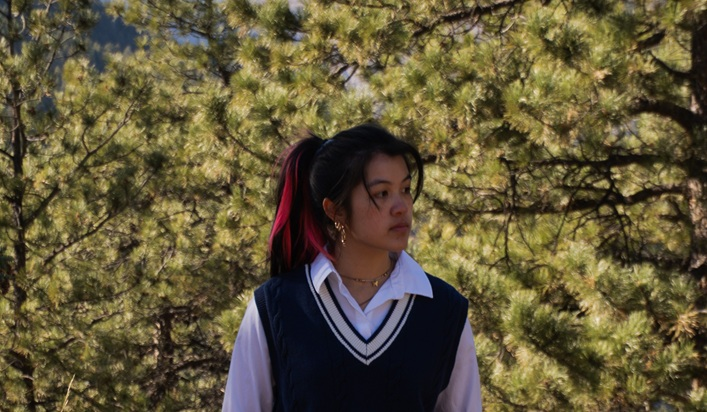
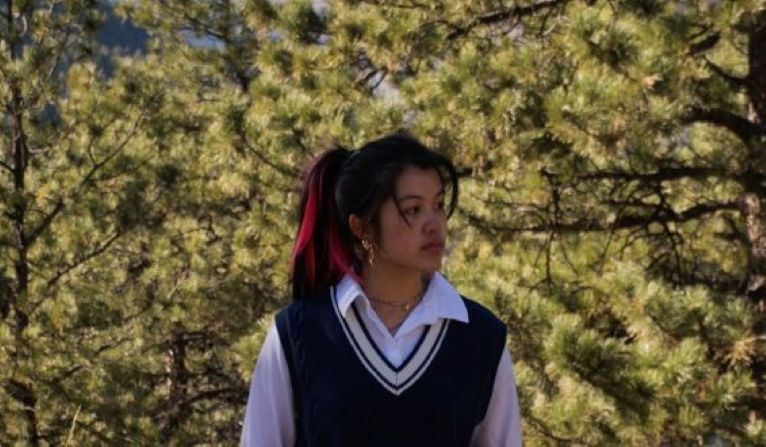
headshot size bigger, additional edits, links

diff --git a/projects.html b/projects.html
@@ -11,77 +11,75 @@
 </head>
 
 <body>
-    <div id="overlay"></div>
-    <div id="underlay">
-        <div class="mainHeader">
-            <a href="index.html" tabindex="1">Home</a>
-            <a href="aboutMe.html" tabindex="2">About Me</a>
-            <a href="projects.html" tabindex="3">Portfolio</a>
-        </div>
+    <div class="mainHeader">
+        <a href="index.html" tabindex="1">Home</a>
+        <a href="aboutMe.html" tabindex="2">About Me</a>
+        <a href="projects.html" tabindex="3">Portfolio</a>
+    </div>
 
-        <div class="portcont">
-            <h1 tabindex="4">Here's a portfolio of my work!</h1>
-        </div>
-            <div class="cols">
-                <div class="col" ontouchstart="this.classList.toggle('hover');">
-                    <div class="container">
-                        <div class="front" style=background:yellow>
-                            <div class="inner">
-                                <p>Figma Website Replica and Redesign</p>
-                                <span>
-                                </span>
-                            </div>
-                        </div>
-                        <div class="back">
-                            <div class="inner">
-                                <p>I recreated the visual interface of a website and redesigned it to be better. The recreation taught me to navigate Figma design features, and the redesign exercised my graphic design skills. Here's the link:
-                                    <a href="https://www.figma.com/design/GNd59A1XruwCxladOMW9KX/Website-Interface-Redesign---Keira-Vu?node-id=0-1&p=f&t=da6rDWxkaQMwk9Q4-0">
-                                    Interface Redesign
-                                    </a>
-                                </p>
-                            </div>
-                        </div>
+    <div class="portcont">
+        <h1 tabindex="4">Here's a portfolio of my work!</h1>
+    </div>
+
+    <div class="cols">
+        <div class="col" ontouchstart="this.classList.toggle('hover');">
+            <div class="container">
+                <div class="front" style=background:yellow>
+                    <div class="inner">
+                        <p tabindex="4">Figma Website Replica and Redesign</p>
                     </div>
                 </div>
-                <div class="col" ontouchstart="this.classList.toggle('hover');">
-                    <div class="container">
-                        <div class="front" style=background:green>
-                            <div class="inner">
-                                <p>Atlas Themed Sticker</p>
-                            </div>
-                        </div>
-                        <div class="back">
-                            <div class="inner">
-                                <p>I took the Unstable Design Lab in the Atlas Center and designed a 70s themed sticker that related to it.</p>
-                            </div>
-                        </div>
-                    </div>
-                </div>
-                <div class="col" ontouchstart="this.classList.toggle('hover');">
-                    <div class="container">
-                        <div class="front" style=background:red>
-                            <div class="inner">
-                                <p>Concert Program Poster Mailer</p>                                
-                            </div>
-                        </div>
-                        <div class="back">
-                            <div class="inner">
-                                <p>I was tasked to take all of the text included in this PDF and format it all onto one page, and then design the poster side. Here's the PDF:</p>
-                                <a href="file:///C:/Users/keivu/OneDrive/Documents/textFA25/PosterMailerProject2_KeiraVu.pdf">Concert Program Poster Mailer</a>
-                            </div>
-                        </div>
+                <div class="back">
+                    <div class="inner">
+                        <p tabindex="5">I recreated the visual interface of a website and redesigned it to be better. The recreation taught me to navigate Figma design features, and the redesign exercised my graphic design skills. Here's the link:
+                            <a href="https://www.figma.com/design/GNd59A1XruwCxladOMW9KX/Website-Interface-Redesign---Keira-Vu?node-id=0-1&p=f&t=da6rDWxkaQMwk9Q4-0"
+                            tabindex="6">Interface Redesign</a>
+                        </p>
                     </div>
                 </div>
             </div>
-
-        <footer class="foot">
-            <div class="emails">
-                <a href="mailto:keira.vu@gmail.com">keira.vu@gmail.com</a>
-                <a href="mailto:kevu2910@colorado.edu">kevu2910@colorado.edu</a>
+        </div>
+        <div class="col" ontouchstart="this.classList.toggle('hover');">
+            <div class="container">
+                <div class="front" style=background:green>
+                    <div class="inner">
+                        <p tabindex="7">Atlas Themed Sticker</p>
+                    </div>
+                </div>
+                <div class="back">
+                    <div class="inner">
+                        <p tabindex="8">I took the Unstable Design Lab in the Atlas Center and designed a 70s themed sticker that related to it. Here's the sticker:</p>
+                        <a href="./images/Sticker.png" tabindex="9">Atlas Sticker
+                        </a>                               
+                    </div>
+                </div>
             </div>
-            <div>720-930-5763</div>
-        </footer>    
-    </div>   
+        </div>
+        <div class="col" ontouchstart="this.classList.toggle('hover');">
+            <div class="container">
+                <div class="front" style=background:red>
+                    <div class="inner">
+                        <p tabindex="10">Concert Program Poster Mailer</p>                                
+                    </div>
+                </div>
+                <div class="back">
+                    <div class="inner">
+                        <p tabindex="11">I was tasked to take all of the text included in this PDF and format it all onto one page, and then design the poster side. Here are the images:</p>
+                        <a href="./images/Program.png" tabindex="12">Concert Poster</a>
+                        <a href="./images/Program2.png" tabindex="13">Concert Program</a>
+                    </div>
+                </div>
+            </div>
+        </div>
+    </div>
+
+    <footer class="foot">
+        <div class="emails">
+            <a href="mailto:keira.vu@gmail.com" tabindex="14">keira.vu@gmail.com</a>
+            <a href="mailto:kevu2910@colorado.edu" tabindex="15">kevu2910@colorado.edu</a>
+        </div>
+        <div tabindex="16">720-930-5763</div>
+    </footer>    
     <style src="portfolio.js"></style>
 </body>
 </html>

diff --git a/aboutMe.html b/aboutMe.html
@@ -20,8 +20,8 @@
     <div class="abMepage">
         <div class="abMesection">
             <div class="description">
-                <h2>About Me</h2>
-                <p>My name is Keira Vu. I'm a second year Creative Technology and Design major,
+                <h2 tabindex="4">About Me</h2>
+                <p tabindex="5">My name is Keira Vu. I'm a second year Creative Technology and Design major,
                     and I have business and space minors. You'll probably find me at a cafe. I love coffee
                     and would even like to have my own coffee shop one day.
                 </p>
@@ -29,9 +29,9 @@
             <img src="./images/=P.jpg"
                 alt="A point-5 style image of me at a concert. The lighting is very purple, and I
                 am sticking out my tongue"
-                tabindex="">
+                tabindex="6">
         </div>
-        <h2>My Interests</h2>
+        <h2 tabindex="7">My Interests</h2>
     </div>
 
     <div class="cols">
@@ -39,15 +39,16 @@
             <div class="container">
                 <div class="front" style=background:yellow>
                     <div class="inner">
-                        <p>Baking</p>
+                        <p tabindex="8">Baking</p>
                         <img class="cardimgs"
                             src="./images/strawbmatchacake.jpg"
-                            alt="My boyfriend and me holding a green matcha cake with strawberry accents on it.">
+                            alt="My boyfriend and me holding a green matcha cake with strawberry accents on it."
+                            tabindex="9">
                     </div>
                 </div>
                 <div class="back">
                     <div class="inner">
-                        <p>I've got quite the sweet tooth, so I'll always love me a good dessert. I've been baking since I was a kid, mainly with my mom, but now more often with my boyfriend.</p>
+                        <p tabindex="10">I've got quite the sweet tooth, so I'll always love me a good dessert. I've been baking since I was a kid, mainly with my mom, but now more often with my boyfriend.</p>
                     </div>
                 </div>
             </div>
@@ -56,15 +57,16 @@
             <div class="container">
                 <div class="front" style=background:green>
                     <div class="inner">
-                        <p>Coffee</p>
+                        <p tabindex="11">Coffee</p>
                         <img style="width: 125px"
                         src="./images/coffee.jpg"
-                        alt="A hot latte in a dark olive green mug sprinkled with rose and cardamom.">
+                        alt="A hot latte in a dark olive green mug sprinkled with rose and cardamom."
+                        tabindex="12">
                     </div>
                 </div>
                 <div class="back">
                     <div class="inner">
-                        <p>I got into coffee after getting rid of my energy drink addiction. I frequently go out to buy coffee, but I'll occasionally pour myself some instant or concentrate. My favorite coffee to get when I go out is the seasonal flavors.</p>
+                        <p tabindex="13">I got into coffee after getting rid of my energy drink addiction. I frequently go out to buy coffee, but I'll occasionally pour myself some instant or concentrate. My favorite coffee to get when I go out is the seasonal flavors.</p>
                     </div>
                 </div>
             </div>
@@ -73,15 +75,16 @@
             <div class="container">
                 <div class="front" style=background:red>
                     <div class="inner">
-                        <p>Animals I Don't Own</p>
+                        <p tabindex="14">Animals I Don't Own</p>
                         <img class="cardimgs"
                             src="./images/loki.jpg"
-                            alt="A black cat napping on my dark green couch in strangely exposed lighting">
+                            alt="A black cat napping on my dark green couch in strangely exposed lighting"
+                            tabindex="15">
                     </div>
                 </div>
                 <div class="back">
                     <div class="inner">
-                        <p>I personally do not have time to own any of my own pets, but I still love interacting with animals! The cat's name is Loki and he is the neighborhood in/out cat. I think he likes my apartment unit the best.</p>
+                        <p tabindex="16">I personally do not have time to own any of my own pets, but I still love interacting with animals! The cat's name is Loki and he is the neighborhood in/out cat. I think he likes my apartment unit the best.</p>
                     </div>
                 </div>
             </div>
@@ -90,10 +93,10 @@
     
     <footer class="foot">
         <div class="emails">
-            <a href="mailto:keira.vu@gmail.com">keira.vu@gmail.com</a>
-            <a href="mailto:kevu2910@colorado.edu">kevu2910@colorado.edu</a>
+            <a href="mailto:keira.vu@gmail.com" tabindex="17">keira.vu@gmail.com</a>
+            <a href="mailto:kevu2910@colorado.edu" tabindex="18">kevu2910@colorado.edu</a>
         </div>
-        <div>720-930-5763</div>
+        <div tabindex="19">720-930-5763</div>
     </footer>
 
     <script src="portfolio.js" defer></script>

diff --git a/portfolio.css b/portfolio.css
@@ -122,6 +122,7 @@ footer {
 
 .cardimgs {
     width: 200px;
+
 }
 
 #overlay {
@@ -271,6 +272,9 @@ footer {
 .inner{
     -webkit-transform: translateY(-50%) translateZ(60px) scale(0.94);
             transform: translateY(-50%) translateZ(60px) scale(0.94);
+    display: flex;
+    flex-direction: column;
+    align-items: center;
     top: 50%;
     position: absolute;
     left: 0;
